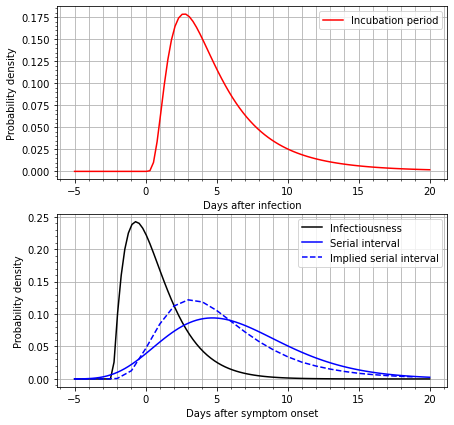
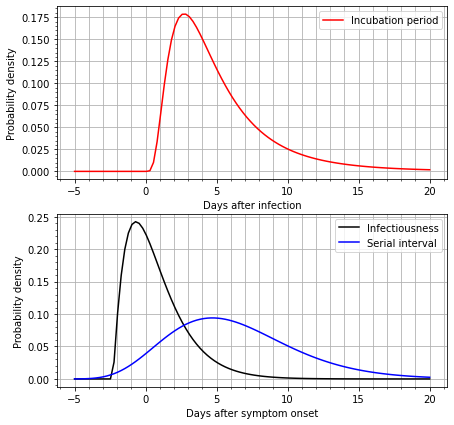
Extensive Research Sources addition about transmission dynamics

diff --git a/src/paper/14-research-sources.ts b/src/paper/14-research-sources.ts
@@ -1,5 +1,7 @@
 import positiveTestRate from './img/positive-test-rate.png';
-import transmissionDynamics from './img/transmission-dynamics.png';
+import heExtended from './img/he-extended-fig-1.png'
+import ferrettiFig1 from './img/ferretti-fig-1.png'
+import ferrettiFig2 from './img/ferretti-infectiousness.gif'
 
 const title = 'Research Sources'
 
@@ -100,10 +102,29 @@ We combine our original guesses with the rough 2/3 contagiousness adjustment fac
 * Positive test rate between 5% and 15% => 5x underreporting factor
 * Positive test rate between greater than 15% => at least a 7x underreporting factor.
 
-### Basic Method: Transmision Dynamics
-TODO(Catherio): Write Copy 
+### Basic Method: Infectious period
 
-![He et al](${transmissionDynamics})
+We mentioned in the [Basic Method](/paper/7-basic-method) that the reason we use a week's worth of cases in our prevalence estimate is that people are most infectious in a roughly week-long span of time from 2 to 9 days after they were infectious. Similarly, the [Advanced Method](/paper/9-advanced-method) works by tallying up all of someone's activities in the past 2 through 9 days.
+
+We have found the following graph useful for thinking about this. From [Ferretti et al](https://science.sciencemag.org/content/368/6491/eabb6936) Figure 1, it shows in the black curves their estimations of the “generation time”, which is the time between when a person gets infected and when they transmit the disease to someone else. We observe that not very many transmissions occur fewer than 2 days after infection or more than 9 days after infection. (Not a *negligible* fraction from a public health standpoint, but few enough to not dominate our personal judgments about our risk).
+
+![Ferretti et al](${ferrettiFig1})
+
+### Note on Infectious Period: Contacts' symptoms
+
+Another important thing to know about the infectious period is that only about 9% of transmissions from people who eventually show symptoms occur more than 3 days before the appearance of symptoms, and 1% occur more than 5 days before symptoms ([He et al](https://www.nature.com/articles/s41591-020-0869-5), figure 1c middle graph):
+
+![He et al](${heExtended})
+
+Additionally, only about 6% of transmissions come from people who won't ever show symptoms ([Ferretti et al](https://science.sciencemag.org/content/368/6491/eabb6936))[^ferretti].
+
+![Ferretti et al](${ferrettiFig2})
+
+These two facts combined imply that, if you interact with someone and then wait more than 3 days, and the person you were in contact with has not yet shown symptoms, then you should be about 7 times more confident than you were before that they did not transmit COVID to you: \`0.94*0.09 + 0.06 = 0.14 ≈ 1/7 \`.
+
+And if you wait as many as 5 days and your contact still has no symptoms, you should have an additional 2x as much certainty (total of 14 times more confident): \`0.94*0.01 + 0.06 = 0.07 ≈ 1/14.
+
+
 
 ### Intermediate Method: Frontline worker adjustment
 We estimated that frontline workers are 3x more likely to have COVID, and anyone who is not a frontline worker is 0.5x as likely to be infected. Here is how we made that calculation.
@@ -116,6 +137,8 @@ First, we use data from [McNicholas & Poydock Table 4](https://www.epi.org/blog/
 
 [^2]:
      We understand there’s currently somewhat of a [debate or discussion](https://slate.com/technology/2020/07/droplets-aerosols-coronavirus-covid-19.html) around whether COVID is best thought of as being transmitted by smaller droplets that can linger in the air, or mostly by larger droplets that fall down quickly due to gravity. We already thought the evidence was pointing towards lingering droplets, and [Prof. Jimenez’s writeup](https://docs.google.com/document/d/1Kx4Mka_nORa8LlEwziRYZxOX0J8_fFfgnt-9TBjxusc/edit) on the topic summarizes this perspective far better than we could.
+
+[^ferretti]: There's an inconsistency in Ferretti et al, where the main text states that total transmissions come "10% from asymptomatic individuals (who never show symptoms), and 6% from environmentally mediated transmission via contamination.", whereas Figure 1 and Table 2 report the reverse, 6% from asymptomatic and 10% from environmental. We choose to go with the Figure 1 and Table 2 estimates.
 `
 
 const post = { title, content }

diff --git a/src/paper/7-basic-method.ts b/src/paper/7-basic-method.ts
@@ -1,6 +1,3 @@
-import ferretti from './img/ferretti-infectiousness.gif'
-import transmissionDynamics from './img/transmission-dynamics.png';
-
 const title =
   'The Basic Method of calculating Person Risk is the regional average'
 const shortTitle = 'Basic Method'
@@ -121,8 +118,7 @@ Compare this with San Francisco County in California, which had [749 new reporte
      Note that this figure includes both _presymptomatic_ transmissions (where the person transmitting COVID will eventually show symptoms, usually within a few days, but hasn’t yet) and _asymptomatic_ transmissions (where the person transmitting will never show symptoms). Catching COVID from someone _presymptomatic_ is much more common: this accounts for about 50% of all transmissions, as opposed to _asymptomatic_ transmissions which account for only about 5%. The COVID discourse tends to muddy this fact somewhat. Asymptomatic infections are inherently harder to measure (because you probably won’t get tested if you don’t show symptoms), and there are indeed plenty of them. However, most of them don’t infect anyone else. Thus, they don’t wind up affecting our risk calculations that much.
 
 [^5]:
-     The most-infectious period starts a couple days after infection, but the day-to-day noise in new case numbers is enough that “0-7 days ago” and “2-9 days ago” are unlikely to be meaningfully different. We’ve found Figure 2 in [Ferretti et al](https://science.sciencemag.org/content/368/6491/eabb6936) most helpful when thinking about this.
-     ![Ferretti et al](${ferretti})
+     The most-infectious period starts a couple days after infection, but the day-to-day noise in new case numbers is enough that “0-7 days ago” and “2-9 days ago” are unlikely to be meaningfully different. See [Research Sources](/paper/14-research-sources) for more about the infectious period.
 
 [^6]:
      As an example, New York City in March–April 2020 was completely overwhelmed by COVID, with widespread reports that even people with obvious and severe symptoms were unable to receive a test. We’ll look specifically at the five boroughs plus Westchester, Nassau, and Suffolk counties, an area containing 12.2 million residents. A survey for COVID antibodies in these counties performed between April 25–May 6 [found](https://www.cdc.gov/coronavirus/2019-ncov/cases-updates/commercial-lab-surveys.html) that 23% of people had previously been infected, but according to the [Johns Hopkins dashboard](https://coronavirus.jhu.edu/us-map) only 263,900 cases (2.2% of the area’s population) had been officially recorded by May 1.
@@ -153,7 +149,6 @@ Compare this with San Francisco County in California, which had [749 new reporte
 
 [^essential]: By “essential worker” we mean roughly the same thing as the following two definitions. First: “Frontline workers include, but are not limited to, healthcare workers, protective service workers (police and EMTs), cashiers in grocery and general merchandise stores, production and food processing workers, janitors and maintenance workers, agricultural workers, and truck drivers” ([econofact.org](https://econofact.org/essential-and-frontline-workers-in-the-covid-19-crisis)). Second: “Essential workers are those who must leave their home to do their jobs AND: who interact in person with members of the public; OR who cannot maintain social distancing at their jobs; OR who work directly with people who are homeless or who have serious medical conditions or who are over age 60” (originally from [color.com](https://www.reddit.com/r/sanfrancisco/comments/gacw9v/covid19_testing_sites_falling_short_of_5000_test/)).
 
-![He et al](${transmissionDynamics})
 `
 
 const post = { title, shortTitle, content }

diff --git a/src/paper/9-advanced-method.ts b/src/paper/9-advanced-method.ts
@@ -86,7 +86,7 @@ Now that we’ve looked at Person Risk, we can combine it with Activity Risk to 
      We derive this from data about US essential workers, and from a blanket testing initiative in the Mission District in San Francisco. First, we use data from [McNicholas & Poydock Table 4](https://www.epi.org/blog/who-are-essential-workers-a-comprehensive-look-at-their-wages-demographics-and-unionization-rates/) showing that around 55 million people in the US are essential workers (38% of workforce and 17% of the population); we sanity-check this against [another source](https://bayareaequityatlas.org/essential-workers) citing 28% of workers in the Bay Area are essential workers. In [Chamie et al.](https://www.medrxiv.org/content/10.1101/2020.06.15.20132233v1.full.pdf)’s blanket testing survey of residents in the Mission District in San Francisco, they found a positive test rate of 5% among frontline service workers and 0.8% among non-frontline workers (6.27x higher for frontline workers). The overall prevalence is a population-weighted average: \`prevalence_total = 0.17 x p_essential + 0.83 x (p_essential / 6.27)\`. From this we compute \`p_essential = 3.3 x prevalence_total\`. We round off to 3x for essential workers, and 0.5x for all others.
 
 [^12]:
-     The reason we care most about their activities between 2–9 days ago is because that is the most likely range of time intervals between infections ([Ferretti et al](https://science.sciencemag.org/content/368/6491/eabb6936) “generation time”).
+     The reason we care most about their activities between 2–9 days ago is because that is the most likely range of time intervals between infections. ([He et al](https://www.nature.com/articles/s41591-020-0869-5), figure 1c middle graph; [Ferretti et al](https://science.sciencemag.org/content/368/6491/eabb6936) “generation time”). See [Research Sources](/paper/14-research-sources) for graphs and more about the infectious period.
 
 `
 

diff --git a/src/components/calculator/PersonRiskControls.tsx b/src/components/calculator/PersonRiskControls.tsx
@@ -51,7 +51,7 @@ export const PersonRiskControls: React.FunctionComponent<{
     <React.Fragment>
       <header id="person-risk">Step 2 - Person Risk</header>
       <div className="form-group">
-        <label htmlFor="personCount">Number of people</label>
+        <label htmlFor="personCount">Number of people near you</label>
         <input
           className="form-control form-control-lg"
           type="number"
